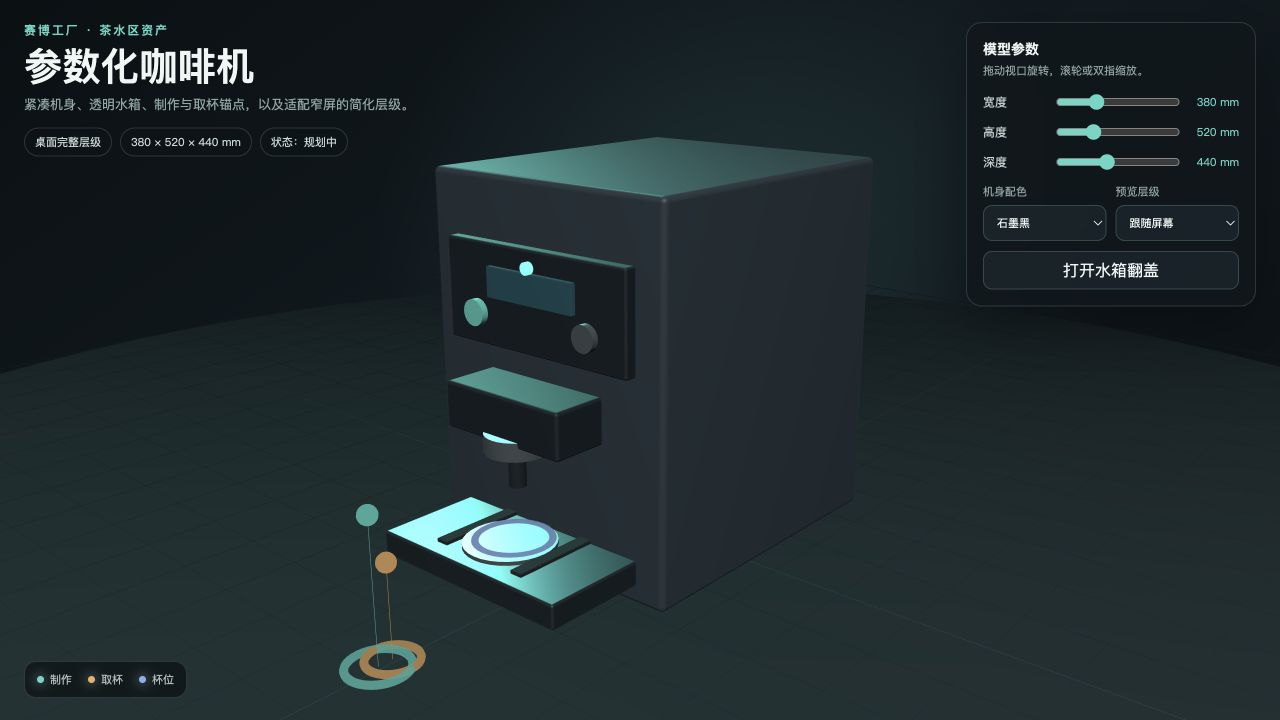
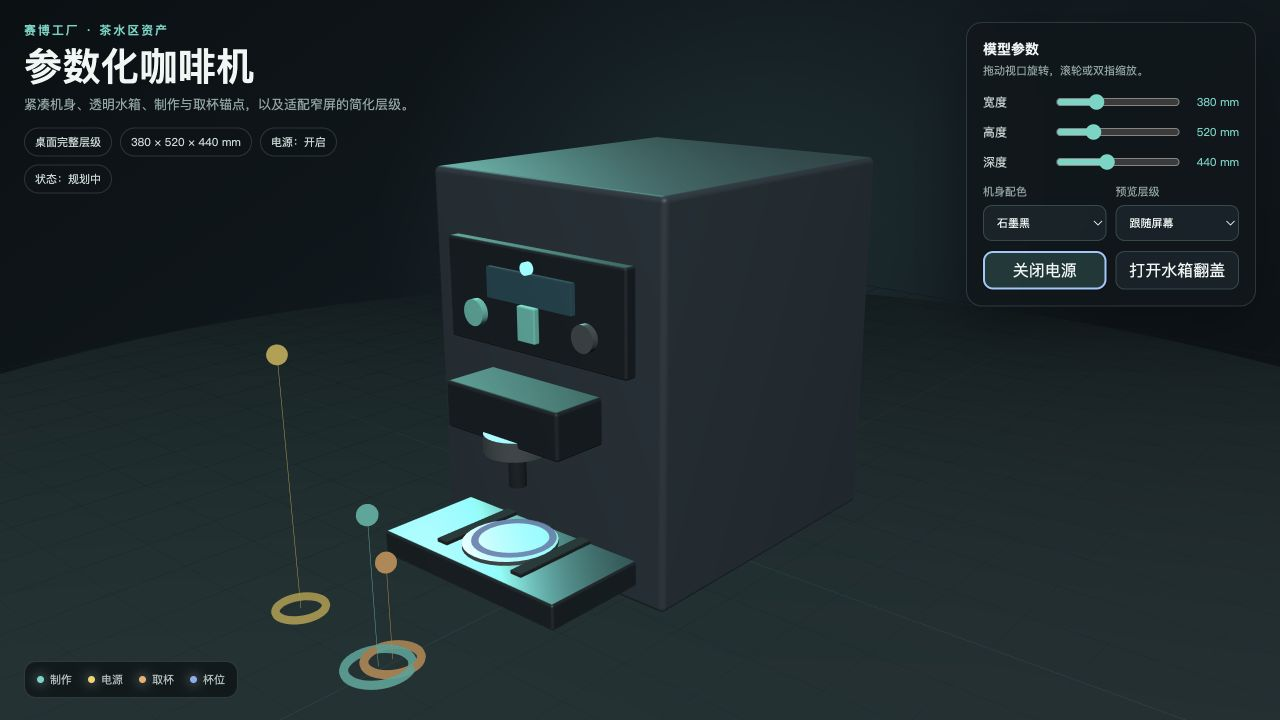
add coffee machine power controls

diff --git a/domain-packages/cyber-factory/models/coffee-machine/model.ts b/domain-packages/cyber-factory/models/coffee-machine/model.ts
@@ -14,6 +14,7 @@ export interface CoffeeMachineParameters {
   depth: number;
   finish: CoffeeMachineFinish;
   height: number;
+  powered: boolean;
   width: number;
 }
 
@@ -21,6 +22,7 @@ export const defaultCoffeeMachineParameters: CoffeeMachineParameters = {
   depth: 440,
   finish: "graphite",
   height: 520,
+  powered: false,
   width: 380,
 };
 
@@ -30,6 +32,7 @@ export const coffeeMachineFeatureIds = {
   frontPanel: "coffee-machine-front-panel",
   display: "coffee-machine-display",
   statusLight: "coffee-machine-status-light",
+  powerSwitch: "coffee-machine-power-switch",
   brewButton: "coffee-machine-brew-button",
   steamButton: "coffee-machine-steam-button",
   brewHead: "coffee-machine-brew-head",
@@ -137,6 +140,7 @@ export function normalizeCoffeeMachineParameters(
     width: clamp(parameters.width ?? defaultCoffeeMachineParameters.width, 320, 520),
     height: clamp(parameters.height ?? defaultCoffeeMachineParameters.height, 460, 680),
     depth: clamp(parameters.depth ?? defaultCoffeeMachineParameters.depth, 360, 560),
+    powered: parameters.powered ?? defaultCoffeeMachineParameters.powered,
     finish: parameters.finish && parameters.finish in finishPalette
       ? parameters.finish
       : defaultCoffeeMachineParameters.finish,
@@ -147,11 +151,19 @@ export function createCoffeeMachine(
   input: Partial<CoffeeMachineParameters> = {},
 ): CreateModelInput {
   const parameters = normalizeCoffeeMachineParameters(input);
-  const { width, height, depth } = parameters;
+  const { width, height, depth, powered } = parameters;
   const colors = finishPalette[parameters.finish];
   const bodyAppearance = { material: "plastic" as const, color: colors.body };
   const panelAppearance = { material: "plastic" as const, color: colors.panel };
   const accentAppearance = { material: "plastic" as const, color: colors.accent };
+  const powerIndicatorAppearance = {
+    material: "plastic" as const,
+    color: powered ? colors.accent : "#314047",
+  };
+  const powerSwitchAppearance = {
+    material: "plastic" as const,
+    color: powered ? colors.accent : "#252C31",
+  };
   const metalAppearance = { material: "metal" as const, color: "#AAB4B9" };
   const darkMetalAppearance = { material: "metal" as const, color: "#4B565C" };
   const glassAppearance = { material: "glass" as const, color: "#79BFD2" };
@@ -206,12 +218,20 @@ export function createCoffeeMachine(
     ),
     cylinder(
       coffeeMachineFeatureIds.statusLight,
-      "工作状态灯",
+      "电源状态指示灯",
       8,
       7,
       [0, controlY + height * 0.086, frontZ + 24],
-      accentAppearance,
+      powerIndicatorAppearance,
       [90, 0, 0],
+    ),
+    box(
+      coffeeMachineFeatureIds.powerSwitch,
+      "电源拨键",
+      [30, 44, 9],
+      [0, controlY - height * 0.045, frontZ + 24],
+      powerSwitchAppearance,
+      2,
     ),
     cylinder(
       coffeeMachineFeatureIds.brewButton,

diff --git a/domain-packages/cyber-factory/models/coffee-machine/coffee-machine.test.ts b/domain-packages/cyber-factory/models/coffee-machine/coffee-machine.test.ts
@@ -75,10 +75,31 @@ describe("parameterized coffee machine asset", () => {
     ))).toBe(true);
   });
 
+  it("provides a dedicated power switch, stateful indicator and semantic anchor", () => {
+    const poweredOff = createCoffeeMachine({ powered: false }).featureGraph!;
+    const poweredOn = createCoffeeMachine({ powered: true }).featureGraph!;
+    const offSwitch = poweredOff.features.find((feature) => feature.id === coffeeMachineFeatureIds.powerSwitch);
+    const onSwitch = poweredOn.features.find((feature) => feature.id === coffeeMachineFeatureIds.powerSwitch);
+    const offIndicator = poweredOff.features.find((feature) => feature.id === coffeeMachineFeatureIds.statusLight);
+    const onIndicator = poweredOn.features.find((feature) => feature.id === coffeeMachineFeatureIds.statusLight);
+    const powerAnchor = coffeeMachineManifest.anchors.find((anchor) => anchor.id === "power-toggle");
+    const powerParameter = coffeeMachineManifest.parameters.find((parameter) => parameter.id === "powered");
+
+    expect(offSwitch).toBeDefined();
+    expect(onSwitch?.appearance?.color).not.toBe(offSwitch?.appearance?.color);
+    expect(onIndicator?.appearance?.color).not.toBe(offIndicator?.appearance?.color);
+    expect(powerAnchor).toMatchObject({
+      kind: "interaction",
+      groupId: "coffee-machine-control-group",
+      tags: ["power", "toggle"],
+    });
+    expect(powerParameter).toMatchObject({ type: "boolean", defaultValue: false });
+  });
+
   it("places action anchors outside the body and the cup socket beneath the spout", () => {
     const bodyFront = defaultCoffeeMachineParameters.depth / 2;
     const actionAnchors = coffeeMachineManifest.anchors.filter((anchor) => (
-      anchor.id === "brew-coffee" || anchor.id === "take-cup"
+      anchor.id === "brew-coffee" || anchor.id === "power-toggle" || anchor.id === "take-cup"
     ));
     expect(actionAnchors.every((anchor) => anchor.position[2] > bodyFront)).toBe(true);
 
@@ -101,6 +122,10 @@ describe("parameterized coffee machine asset", () => {
       coffeeMachineFeatureIds.body,
       coffeeMachineFeatureIds.brewHead,
       coffeeMachineFeatureIds.tray,
+    ]));
+    expect(mobileNear.featureIds).toEqual(expect.arrayContaining([
+      coffeeMachineFeatureIds.powerSwitch,
+      coffeeMachineFeatureIds.statusLight,
     ]));
   });
 });

diff --git a/domain-packages/cyber-factory/models/coffee-machine/preview.ts b/domain-packages/cyber-factory/models/coffee-machine/preview.ts
@@ -84,11 +84,11 @@ function materialFor(feature: ModelFeature) {
   });
   if (feature.id === coffeeMachineFeatureIds.display) {
     material.emissive = new THREE.Color("#1D7183");
-    material.emissiveIntensity = 1.25;
+    material.emissiveIntensity = parameters.powered ? 1.25 : 0.08;
   }
   if (feature.id === coffeeMachineFeatureIds.statusLight) {
     material.emissive = new THREE.Color(color);
-    material.emissiveIntensity = 2.8;
+    material.emissiveIntensity = parameters.powered ? 3.4 : 0.05;
   }
   return material;
 }
@@ -132,7 +132,7 @@ function resolvedDevice(): ModelAssetDeviceClass {
 }
 
 function createAnchorMarker(
-  id: "brew-coffee" | "cup-socket" | "take-cup",
+  id: "brew-coffee" | "cup-socket" | "power-toggle" | "take-cup",
   color: number,
   radius: number,
 ) {
@@ -210,11 +210,13 @@ function rebuildModel() {
   }
 
   modelRoot.add(createAnchorMarker("brew-coffee", 0x58d7c5, 38));
+  modelRoot.add(createAnchorMarker("power-toggle", 0xf3d45c, 30));
   modelRoot.add(createAnchorMarker("take-cup", 0xf1ae62, 32));
   modelRoot.add(createAnchorMarker("cup-socket", 0x88aef0, 48));
 
   requiredElement("device-badge").textContent = device === "mobile" ? "手机简化层级" : "桌面完整层级";
   requiredElement("dimension-badge").textContent = `${parameters.width} × ${parameters.height} × ${parameters.depth} mm`;
+  requiredElement("power-badge").textContent = parameters.powered ? "电源：开启" : "电源：关闭";
 }
 
 function updateParameter(id: "depth" | "height" | "width") {
@@ -233,6 +235,13 @@ requiredElement<HTMLSelectElement>("finish").addEventListener("change", (event) 
 });
 requiredElement<HTMLSelectElement>("device").addEventListener("change", (event) => {
   devicePreference = (event.currentTarget as HTMLSelectElement).value as typeof devicePreference;
+  rebuildModel();
+});
+requiredElement<HTMLButtonElement>("power-toggle").addEventListener("click", (event) => {
+  parameters = { ...parameters, powered: !parameters.powered };
+  const button = event.currentTarget as HTMLButtonElement;
+  button.setAttribute("aria-pressed", String(parameters.powered));
+  button.textContent = parameters.powered ? "关闭电源" : "开启电源";
   rebuildModel();
 });
 requiredElement<HTMLButtonElement>("lid-toggle").addEventListener("click", (event) => {

diff --git a/domain-packages/cyber-factory/models/coffee-machine/manifest.ts b/domain-packages/cyber-factory/models/coffee-machine/manifest.ts
@@ -22,6 +22,7 @@ const simplifiedFeatureIds = [
   coffeeMachineFeatureIds.topCap,
   coffeeMachineFeatureIds.display,
   coffeeMachineFeatureIds.statusLight,
+  coffeeMachineFeatureIds.powerSwitch,
   coffeeMachineFeatureIds.brewCollar,
   coffeeMachineFeatureIds.spout,
   coffeeMachineFeatureIds.cupRing,
@@ -33,8 +34,8 @@ export const coffeeMachineManifest: ModelAssetManifest = {
   schemaVersion: 1,
   id: "cyber-factory-coffee-machine",
   displayName: "参数化咖啡机",
-  description: "适用于办公室茶水区的紧凑咖啡机，包含制作、取杯和补水语义锚点。",
-  version: "1.0.0",
+  description: "适用于办公室茶水区的紧凑咖啡机，包含电源、制作、取杯和补水语义锚点。",
+  version: "1.1.0",
   kind: "asset",
   modelUnit: "mm",
   parameters: [
@@ -74,6 +75,12 @@ export const coffeeMachineManifest: ModelAssetManifest = {
       type: "select",
       defaultValue: defaultCoffeeMachineParameters.finish,
       options: ["graphite", "porcelain", "cobalt"],
+    },
+    {
+      id: "powered",
+      label: "电源状态",
+      type: "boolean",
+      defaultValue: defaultCoffeeMachineParameters.powered,
     },
   ],
   materials: [
@@ -125,8 +132,17 @@ export const coffeeMachineManifest: ModelAssetManifest = {
       material: "plastic",
       color: "#58D7C5",
       featureIds: [
-        coffeeMachineFeatureIds.statusLight,
         coffeeMachineFeatureIds.brewButton,
+      ],
+    },
+    {
+      id: "power-control",
+      label: "电源开关与指示灯",
+      material: "plastic",
+      color: "#314047",
+      featureIds: [
+        coffeeMachineFeatureIds.powerSwitch,
+        coffeeMachineFeatureIds.statusLight,
       ],
     },
     {
@@ -187,6 +203,16 @@ export const coffeeMachineManifest: ModelAssetManifest = {
       range: 900,
       groupId: coffeeMachineGroupIds.body,
       tags: ["navigation", "front"],
+    },
+    {
+      id: "power-toggle",
+      label: "切换电源",
+      kind: "interaction",
+      position: [-180, 330, defaultCoffeeMachineParameters.depth / 2 + 250],
+      rotation: [0, 180, 0],
+      range: 720,
+      groupId: coffeeMachineGroupIds.control,
+      tags: ["power", "toggle"],
     },
     {
       id: "brew-coffee",

diff --git a/domain-packages/cyber-factory/models/coffee-machine/preview.html b/domain-packages/cyber-factory/models/coffee-machine/preview.html
@@ -84,6 +84,7 @@
       .select-row label { display: grid; gap: 6px; color: var(--muted); font-size: 11px; }
       button { margin-top: 10px; cursor: pointer; }
       button[aria-pressed="true"] { border-color: var(--accent); background: rgba(53, 132, 124, 0.3); }
+      .button-row { display: grid; grid-template-columns: 1fr 1fr; gap: 9px; }
 
       .legend {
         position: absolute;
@@ -102,6 +103,7 @@
       }
       .legend span { display: flex; gap: 6px; align-items: center; }
       .dot { width: 7px; height: 7px; border-radius: 50%; background: var(--accent); box-shadow: 0 0 12px currentColor; }
+      .dot.power { background: #f3d45c; }
       .dot.take { background: #f1ae62; }
       .dot.socket { background: #88aef0; }
 
@@ -129,6 +131,7 @@
         .select-row { margin-top: 9px; }
         select, button { min-height: 32px; padding: 5px 7px; font-size: 11px; }
         button { margin-top: 8px; }
+        .button-row { gap: 8px; }
         .legend { left: 16px; bottom: 242px; gap: 10px; padding: 7px 9px; }
       }
     </style>
@@ -143,6 +146,7 @@
         <div class="badges">
           <span class="badge" id="device-badge">桌面层级</span>
           <span class="badge" id="dimension-badge">380 × 520 × 440 mm</span>
+          <span class="badge" id="power-badge">电源：关闭</span>
           <span class="badge">状态：规划中</span>
         </div>
       </section>
@@ -183,11 +187,15 @@
             </select>
           </label>
         </div>
-        <button id="lid-toggle" type="button" aria-pressed="false">打开水箱翻盖</button>
+        <div class="button-row">
+          <button id="power-toggle" type="button" aria-pressed="false">开启电源</button>
+          <button id="lid-toggle" type="button" aria-pressed="false">打开水箱翻盖</button>
+        </div>
       </section>
 
       <aside class="legend" aria-label="锚点图例">
         <span><i class="dot"></i>制作</span>
+        <span><i class="dot power"></i>电源</span>
         <span><i class="dot take"></i>取杯</span>
         <span><i class="dot socket"></i>杯位</span>
       </aside>

diff --git a/domain-packages/cyber-factory/models/coffee-machine/README.md b/domain-packages/cyber-factory/models/coffee-machine/README.md
@@ -5,8 +5,8 @@
 ## 交付内容
 
 - `model.ts`：可调整宽度、高度、深度与石墨黑、瓷白、钴蓝三种配色的硬朗工业几何工厂；外壳仅保留 2–8 mm 小倒角。
-- `manifest.ts`：稳定 ID、材质槽、地面基准、机身/托盘碰撞体、制作/取杯/杯位/补水锚点、水箱翻盖关节，以及桌面和移动 LOD。
-- `preview.html` / `preview.ts`：不依赖公共 registry 的独立交互预览，可调整参数和开合水箱翻盖。
+- `manifest.ts`：稳定 ID、材质槽、地面基准、机身/托盘碰撞体、电源/制作/取杯/杯位/补水锚点、水箱翻盖关节，以及桌面和移动 LOD。
+- `preview.html` / `preview.ts`：不依赖公共 registry 的独立交互预览，可调整参数、切换电源与指示灯状态，并开合水箱翻盖。
 - `coffee-machine.test.ts`：契约、参数边界、稳定 ID、锚点和移动 LOD 测试。
 - `tsconfig.json`：独立覆盖资产工厂、测试和预览代码的严格类型检查。
 
